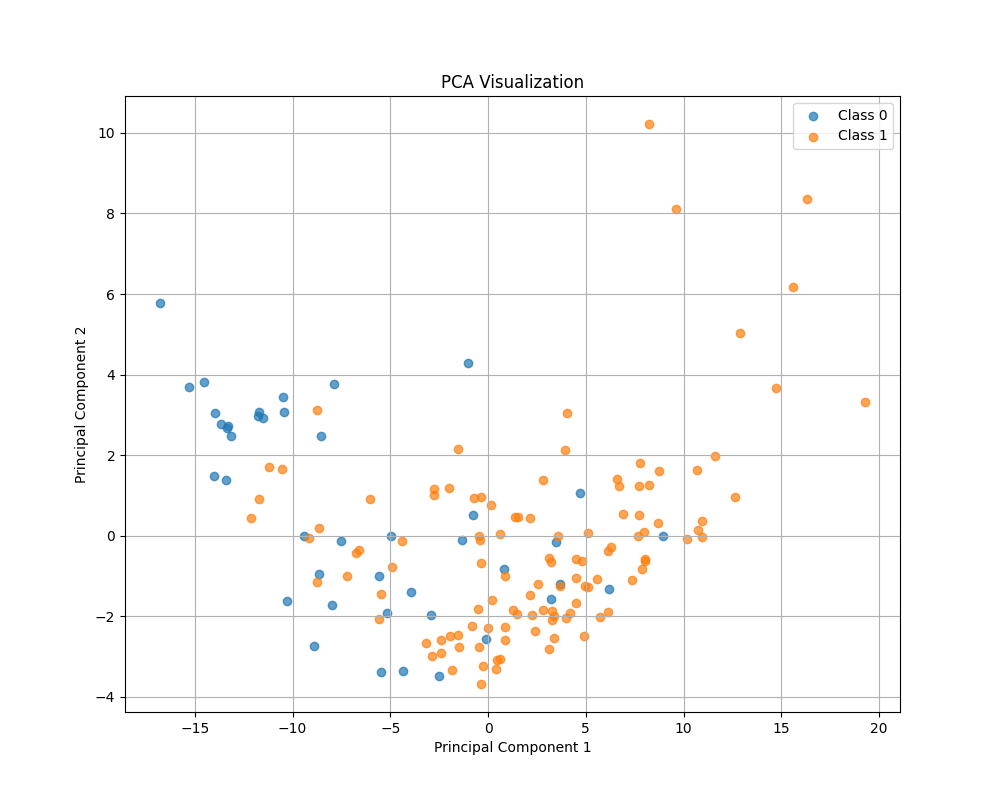
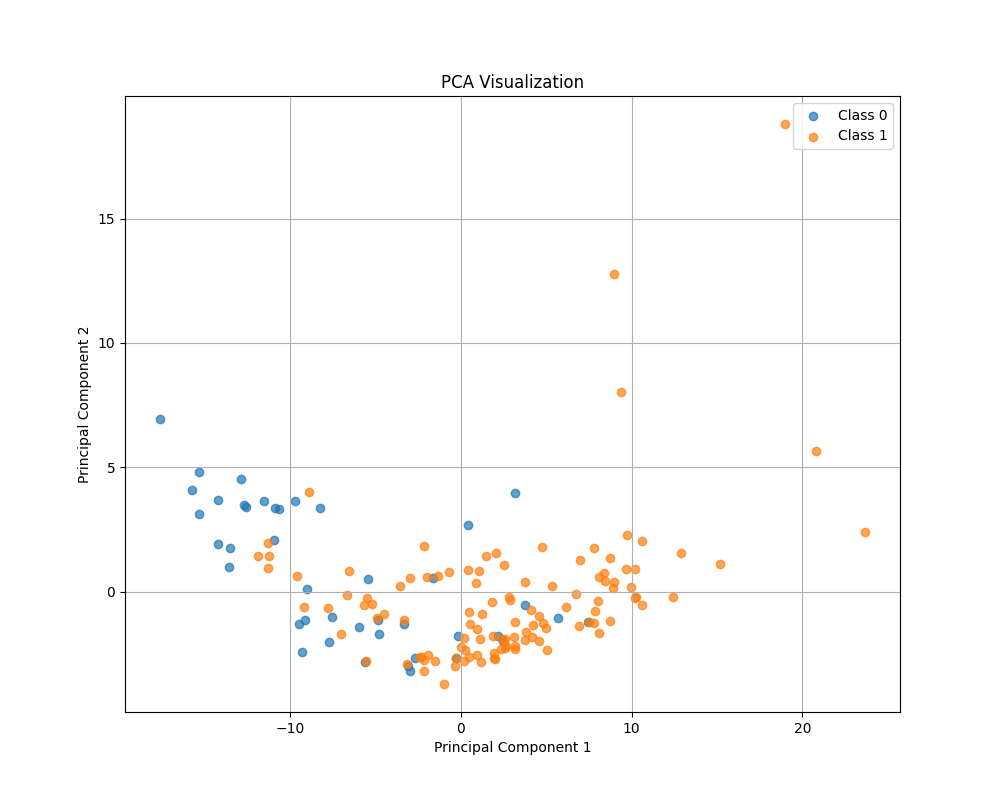
Update evaluation metrics for CNN-SVM and Decision Tree; enhance metrics saving functionality and add PCA visualization; refactor main.py to include new modules

diff --git a/B/CNN.py b/B/CNN.py
@@ -10,6 +10,7 @@ import torch.utils.data as data
 import torchvision.transforms as transforms
 from torchvision.models import resnet18
 import math
+import os
 
 import medmnist
 # INFO: Metadata about the MedMNIST dataset, e.g., task type and number of classes.
@@ -99,6 +100,10 @@ criterion = nn.CrossEntropyLoss()
 optimizer = optim.SGD(model.parameters(), lr=lr, momentum=0.9)
 
 # Training and evaluation loop
+training_loss = []
+validation_loss = []
+epochs = list(range(1, NUM_EPOCHS + 1))
+
 for epoch in range(NUM_EPOCHS):
     model.train()
     train_loss = 0.0
@@ -119,6 +124,19 @@ for epoch in range(NUM_EPOCHS):
         correct += predicted.eq(targets).sum().item()
 
     train_acc = 100. * correct / total
+    training_loss.append(train_loss / len(train_loader))
+    
+    # Evaluate on validation set
+    model.eval()
+    val_loss = 0.0
+    with torch.no_grad():
+        for inputs, targets in val_loader:
+            outputs = model(inputs)
+            targets = targets.squeeze().long()
+            loss = criterion(outputs, targets)
+            val_loss += loss.item()
+    validation_loss.append(val_loss / len(val_loader))
+
     print(f"Epoch {epoch+1}/{NUM_EPOCHS}, Loss: {train_loss:.4f}, Accuracy: {train_acc:.2f}%")
 
 # Evaluation function
@@ -148,3 +166,48 @@ for cls, count in zip(unique_classes, counts):
     print(f"Class {cls}: {count} samples")
 class_ratios = counts / counts.sum()
 print(f"Class ratios: {class_ratios}")
+
+# Save metrics and graphs
+output_dir = r"C:\\Users\\dariu\\Documents\\1. UCL\\4th Year\\Applied Machine Learning Systems I\\AMLS_24-25_SN21026121\\B"
+os.makedirs(output_dir, exist_ok=True)
+
+# Save metrics to a text file
+metrics_path = os.path.join(output_dir, "metrics.txt")
+with open(metrics_path, "w") as f:
+    f.write(f"Validation Accuracy: {val_acc:.2f}%\n")
+    f.write(f"Test Accuracy: {test_acc:.2f}%\n")
+    f.write("Class Distribution in Training Dataset:\n")
+    for cls, count in zip(unique_classes, counts):
+        f.write(f"Class {cls}: {count} samples\n")
+    f.write("Class Ratios:\n")
+    for cls, ratio in zip(unique_classes, class_ratios):
+        f.write(f"Class {cls}: {ratio:.4f}\n")
+
+print(f"Metrics saved to {metrics_path}")
+
+# Save the loss curve graph
+loss_curve_path = os.path.join(output_dir, "loss_curve.png")
+plt.figure(figsize=(8, 6))
+plt.plot(epochs, training_loss, label="Training Loss", marker="o")
+plt.plot(epochs, validation_loss, label="Validation Loss", marker="s")
+plt.title("Training vs Validation Loss Curve", fontsize=14)
+plt.xlabel("Epochs", fontsize=12)
+plt.ylabel("Loss", fontsize=12)
+plt.legend(fontsize=12)
+plt.grid(alpha=0.3)
+plt.tight_layout()
+plt.savefig(loss_curve_path)
+plt.close()
+print(f"Loss curve saved to {loss_curve_path}")
+
+# Save the class distribution bar chart
+class_distribution_path = os.path.join(output_dir, "class_distribution.png")
+plt.figure(figsize=(8, 6))
+plt.bar(unique_classes, counts, tick_label=[f"Class {cls}" for cls in unique_classes])
+plt.title("Class Distribution in Training Dataset", fontsize=14)
+plt.xlabel("Class", fontsize=12)
+plt.ylabel("Count", fontsize=12)
+plt.tight_layout()
+plt.savefig(class_distribution_path)
+plt.close()
+print(f"Class distribution chart saved to {class_distribution_path}")

diff --git a/B/CNN_DT.py b/B/CNN_DT.py
@@ -1,3 +1,8 @@
+from sklearn.metrics import f1_score, classification_report, confusion_matrix
+import seaborn as sns
+import matplotlib.pyplot as plt
+from sklearn.decomposition import PCA
+import os
 from sklearn.tree import DecisionTreeClassifier
 from sklearn.metrics import accuracy_score, roc_auc_score
 from sklearn.preprocessing import StandardScaler
@@ -119,8 +124,6 @@ print(f"Validation Accuracy: {val_acc:.2f}%")
 print(f"Test Accuracy: {test_acc:.2f}%")
 
 # Feature extraction for decision tree
-from sklearn.tree import DecisionTreeClassifier
-
 def extract_features(model, loader):
     model.eval()
     features = []
@@ -169,3 +172,56 @@ if len(np.unique(train_labels)) == 2:
 
     print(f"Validation AUC (Decision Tree): {val_auc:.4f}")
     print(f"Test AUC (Decision Tree): {test_auc:.4f}")
+
+# ---------------------------
+# Save Metrics, Confusion Matrix, and PCA Plot
+# ---------------------------
+output_dir = r'C:\Users\dariu\Documents\1. UCL\4th Year\Applied Machine Learning Systems I\AMLS_24-25_SN21026121\B'
+os.makedirs(output_dir, exist_ok=True)
+
+val_f1 = f1_score(val_labels, val_predictions, average='weighted')
+test_f1 = f1_score(test_labels, test_predictions, average='weighted')
+
+metrics_file = os.path.join(output_dir, 'decision_tree_metrics.txt')
+with open(metrics_file, 'w') as file:
+    file.write(f"Decision Tree Validation Accuracy: {val_accuracy:.4f}\n")
+    file.write(f"Decision Tree Test Accuracy: {test_accuracy:.4f}\n")
+    file.write(f"Decision Tree Validation F1 Score: {val_f1:.4f}\n")
+    file.write(f"Decision Tree Test F1 Score: {test_f1:.4f}\n")
+    file.write("\nClassification Report (Test):\n")
+    file.write(classification_report(test_labels, test_predictions))
+
+print(f"Metrics saved to {metrics_file}")
+
+# Confusion Matrix
+conf_matrix = confusion_matrix(test_labels, test_predictions)
+conf_matrix_file = os.path.join(output_dir, 'confusion_matrix.png')
+plt.figure(figsize=(8, 6))
+sns.heatmap(conf_matrix, annot=True, fmt='d', cmap='Blues', xticklabels=np.unique(test_labels), yticklabels=np.unique(test_labels))
+plt.title('Confusion Matrix')
+plt.xlabel('Predicted')
+plt.ylabel('Actual')
+plt.savefig(conf_matrix_file)
+plt.close()
+print(f"Confusion matrix saved as '{conf_matrix_file}'")
+
+# PCA Plot
+pca = PCA(n_components=2)
+pca_features = pca.fit_transform(test_features)
+
+pca_plot_file = os.path.join(output_dir, 'pca_plot.png')
+plt.figure(figsize=(10, 8))
+for label in np.unique(test_labels):
+    plt.scatter(
+        pca_features[test_labels == label, 0],
+        pca_features[test_labels == label, 1],
+        label=f"Class {label}", alpha=0.7
+    )
+plt.title('PCA Visualization')
+plt.xlabel('Principal Component 1')
+plt.ylabel('Principal Component 2')
+plt.legend()
+plt.grid()
+plt.savefig(pca_plot_file)
+plt.close()
+print(f"PCA plot saved as '{pca_plot_file}'")

diff --git a/main.py b/main.py
@@ -1,10 +1,14 @@
 # main.py
 from A import CNN_SVM
 from A import CNN_DT_RF_Ensemble
+from B import CNN
+from B import CNN_DT
 
 def main():
     #CNN_SVM
-    CNN_DT_RF_Ensemble
+    #CNN_DT_RF_Ensemble
+    #CNN
+    CNN_DT
 
 if __name__ == "__main__":
     main()
